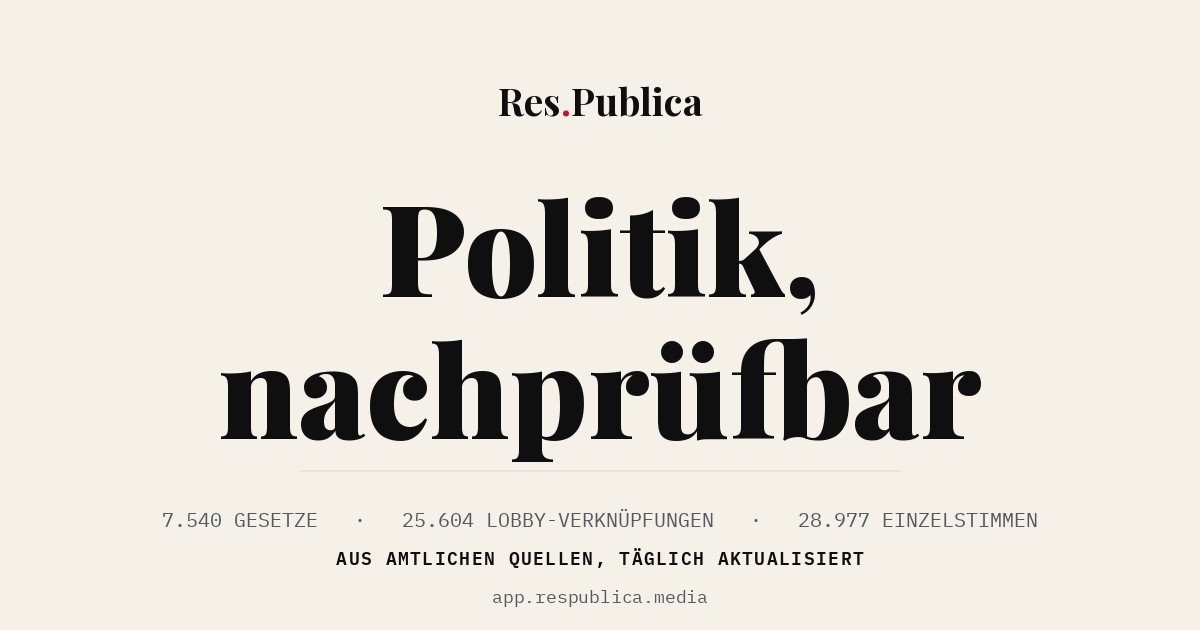
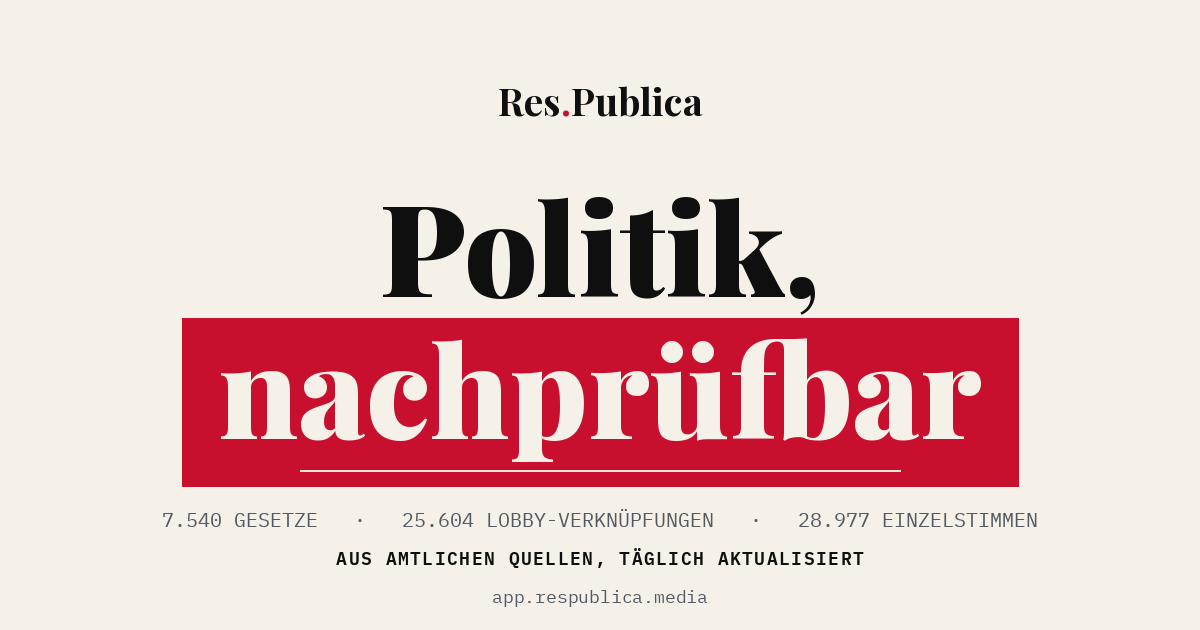
feat(seo): Teilen-Bild mit rotem Stempel
Die erste Fassung war im Feed ein beiges Rechteck ohne Fokuspunkt.
"nachprüfbar" steht jetzt in Papierfarbe auf einem roten Block.

Das Rot ist dabei keine Dekoration: ein roter Stempel auf einem Dokument
ist die Geste des Pruefens — Form und Aussage sagen dasselbe. Der
Papiergrund bleibt erhalten, denn der ist in einem ueberwiegend dunklen
Reddit-Feed das eigentliche Unterscheidungsmerkmal; eine rote Vollflaeche
haette die Farblogik umgekehrt, in der Rot der Akzent und Papier der Grund
ist.

Die Blockmasse werden aus der tatsaechlichen Textausdehnung berechnet
(textbbox) statt geschaetzt, sonst sitzt die Schrift bei geaenderter
Groesse oder anderem Wort schief im Feld.

Changed region(s): [[0.1542, 0.4825, 0.8633, 0.7841]]

diff --git a/scripts/share_image.py b/scripts/share_image.py
@@ -58,7 +58,24 @@ for t, farbe in teile:
 # Kurz gehalten, damit der Satz gross stehen kann: in der Reddit-Miniatur
 # von rund 140 Pixeln bleibt nur lesbar, was hier gross gesetzt ist.
 mitte('Politik,', playfair(128), 158)
-mitte('nachprüfbar', playfair(128), 300)
+
+# "nachprüfbar" als roter Stempel. Das Rot ist hier nicht Dekoration: ein
+# roter Stempel auf einem Dokument ist die Geste des Pruefens, Form und
+# Aussage sagen dasselbe. Zugleich bekommt die Karte einen Fokuspunkt —
+# ohne ihn ist sie im Feed ein beiges Rechteck.
+schrift = playfair(128)
+wort = 'nachprüfbar'
+y_text = 300
+# Block aus der tatsaechlichen Textausdehnung ableiten statt zu raten,
+# sonst sitzt die Schrift bei anderer Groesse schief im Feld.
+l, o, r, u = d.textbbox((0, y_text), wort, font=schrift)
+breite = r - l
+pad_x, pad_o, pad_u = 36, 20, 24
+d.rectangle(
+    [(B - breite) / 2 - pad_x, o - pad_o, (B + breite) / 2 + pad_x, u + pad_u],
+    fill=ROT,
+)
+mitte(wort, schrift, y_text, PAPIER)
 
 # --- Trennlinie --------------------------------------------------------
 d.line([(300, 470), (900, 470)], fill=RAND, width=2)
